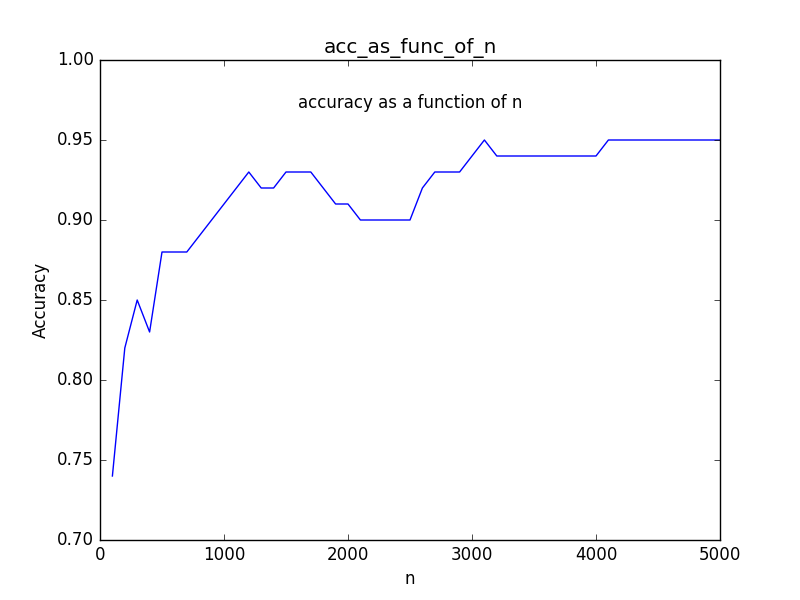
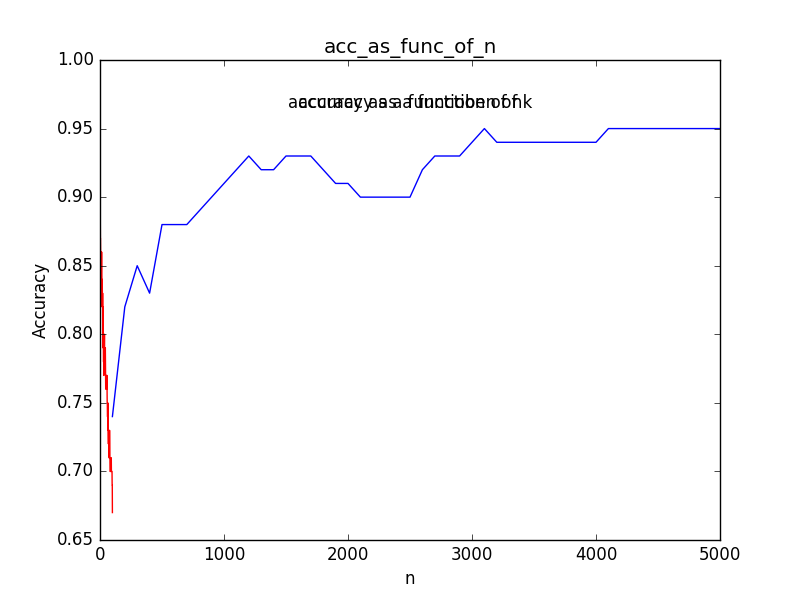
update

diff --git a/ex1/nearest_neighbor.py b/ex1/nearest_neighbor.py
@@ -32,13 +32,13 @@ test_labels = labels[idx[10000:]]
 
 def knn(mat, labels, vec, k):
 	# euclid_mat = np.apply_along_axis(lambda x: np.sqrt(np.dot((x - vec),(x - vec))), 1, mat)
-	euclid_mat = np.sum((mat - vec) * (mat - vec), axis=1)
+	euclid_mat = np.sum((mat - vec) * (mat - vec), axis=1) # sum is performed along each row
 	indices = np.argsort(euclid_mat)
 	nearest_idx = indices[:k]
 	nearest_labels = [labels[i] for i in nearest_idx]
 
 	c = Counter(nearest_labels) # a dictionary of keys and their counts
-	return c.most_common()[0][0]
+	return c.most_common(1)[0][0]
 
 def calc_loss_given_k(X, y, k):
 	loss = 0
@@ -47,7 +47,7 @@ def calc_loss_given_k(X, y, k):
 	neigh.fit(X, y)
 	for i in range(n):
 		# pred_label = knn(X, y, test[i], k)
-		pred_label = neigh.predict(test[i])
+		pred_label = neigh.predict(test[i])[0]
 		loss += (pred_label != test_labels[i])
 	return loss / n
 
@@ -63,30 +63,34 @@ def iterate_over_k(from_k, to_k, step):
 	k_vals = []
 
 	for k in range(from_k, to_k + step):
-		print("k {}".format(k))
 		loss = calc_loss_given_k(train[:1000], train_labels[:1000], k)
 		acc_vals.append(1 - loss)
 		k_vals.append(k)
 
+	best_acc, best_k = sorted(zip(acc_vals, k_vals), reverse=True)[0]
+	print("Best K is {} with accuracy {}".format(best_k, best_acc))
+
 	title = 'acc_as_func_of_k'
-	plt.text(0.5, 0.9, 'accuracy as a function of k', transform=plt.gca().transAxes, ha='center')
+	plt.text(0.5, 0.9, 'accuracy as a functioben of k', transform=plt.gca().transAxes, ha='center')
 	plt.title(title)
 	plt.plot(k_vals, acc_vals, 'r-')
 	plt.ylim(ymax = 1)
 	plt.ylabel('Accuracy')
 	plt.xlabel('k')
 	plt.savefig(title)
-	plt.show()
+	# plt.show()
 
 def iterate_over_n(from_n, to_n, step):
 	acc_vals = []
 	n_vals = []
 	
 	for n in range(from_n, to_n + step, step):
-		print("n {}".format(n))
 		loss = calc_loss_given_k(train[:n], train_labels[:n], 1)
 		acc_vals.append(1 - loss)
 		n_vals.append(n)
+
+	best_acc, best_n = sorted(zip(acc_vals, n_vals), reverse=True)[0]
+	print("Best n is {} with accuracy {}".format(best_n, best_acc))
 
 	title = 'acc_as_func_of_n'
 	plt.text(0.5, 0.9, 'accuracy as a function of n', transform=plt.gca().transAxes, ha='center')
@@ -96,7 +100,7 @@ def iterate_over_n(from_n, to_n, step):
 	plt.ylabel('Accuracy')
 	plt.xlabel('n')
 	plt.savefig(title)
-	plt.show()
+	# plt.show()
 
 if __name__ == '__main__':
 	# loss = calc_loss_given_k(10)
